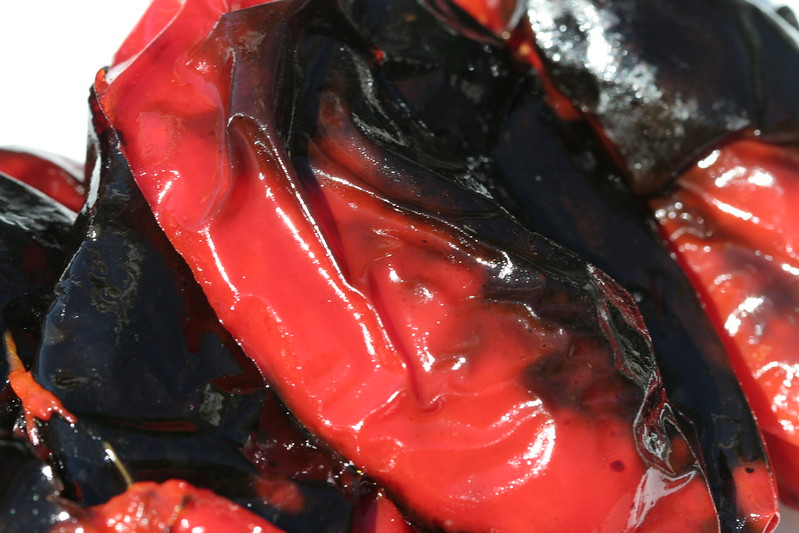
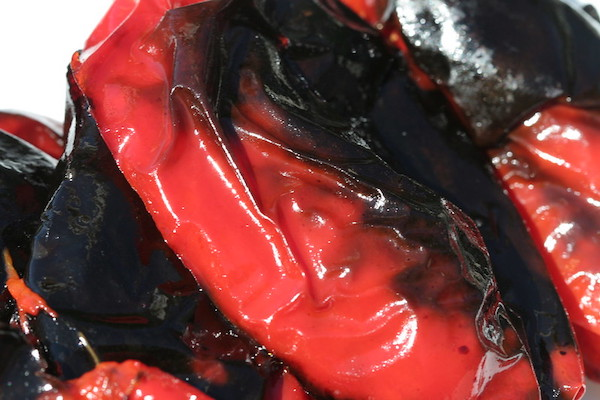
size compromise

diff --git a/_posts/2020-04-03-roasted-red-bell-pepper-hummus.md b/_posts/2020-04-03-roasted-red-bell-pepper-hummus.md
@@ -3,7 +3,7 @@ title: Roasted Red Bell Pepper Hummus
 author: Ajay Jain
 categories:
   - Sauces and Dips
-featured_image: /images/roasted2.jpg
+featured_image: /images/roasted.jpg
 recipe:
   servings: 3 People
   prep: 5 minutes
